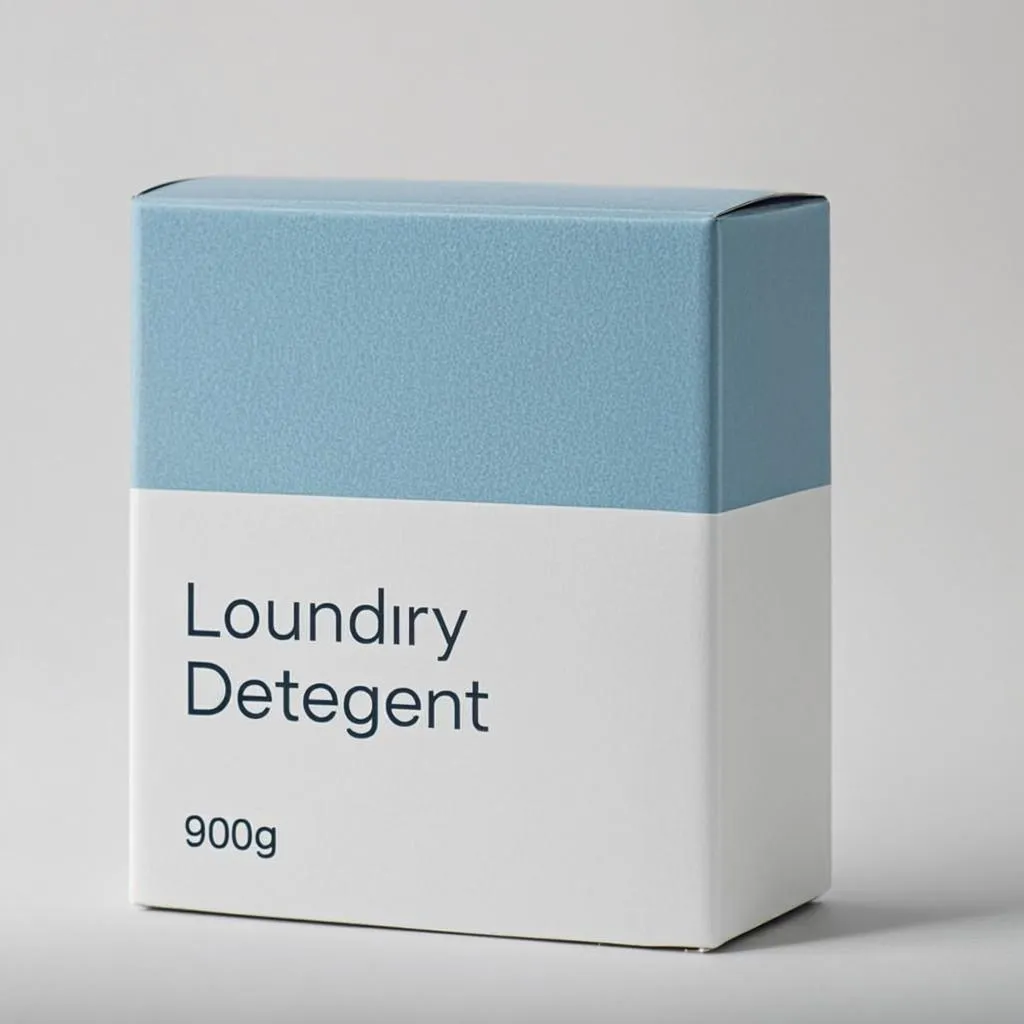
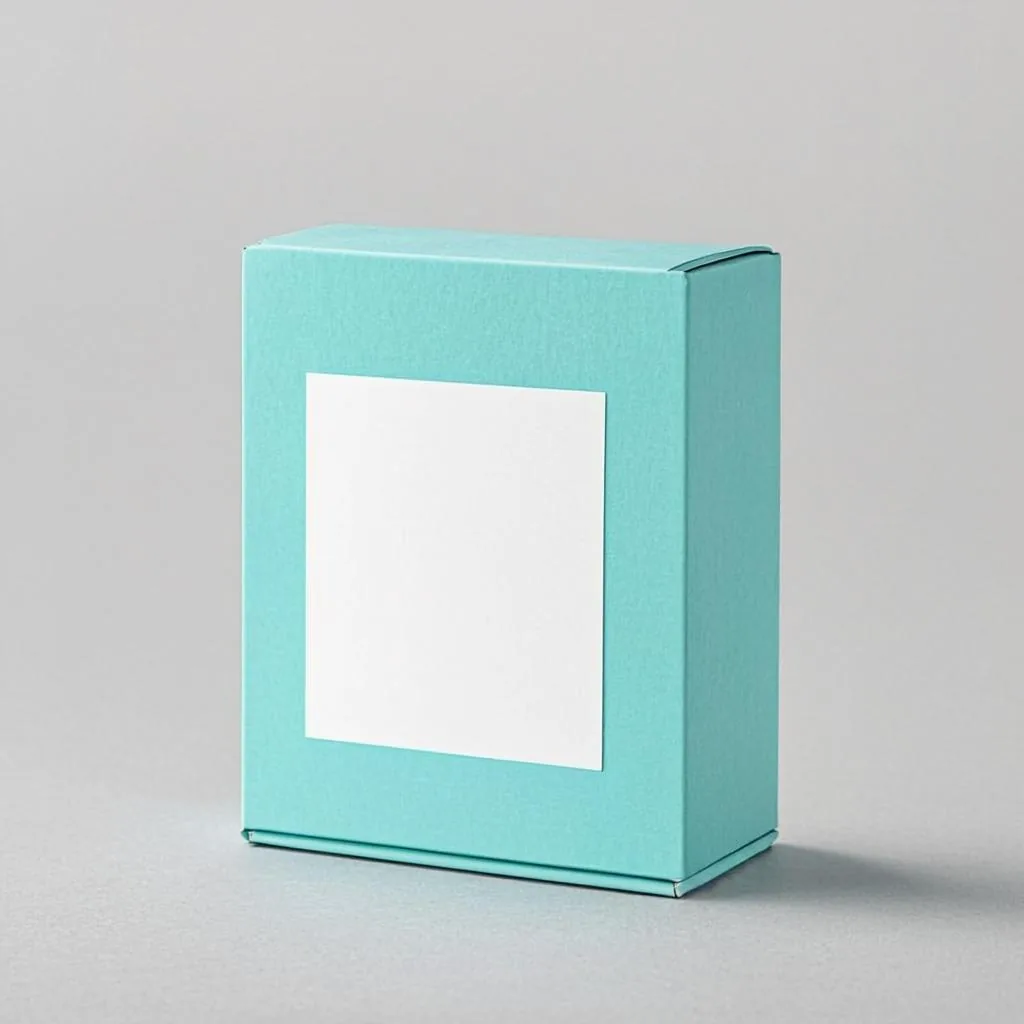
feat(landing): imagenes de producto reales en «Organiza tu catalogo»
El paso 2 del ecosistema multi-tienda mostraba las 4 tarjetas de
producto con un placeholder de icono casi invisible (text-white/10) en
lugar de imagenes.

- Reutiliza los assets que el proyecto ya tenia sin referencias en
  public/landing/demo-products/ (arroz/aceite/cafe/detergente.webp,
  1024x1024, commit c4ce1177e) — sin duplicar bibliotecas ni anadir
  dependencias.
- detergente.webp REGENERADO: el original mostraba texto corrupto
  generado ('Loundry Detegent'); el reemplazo es packaging sin texto con
  el mismo fondo/estudio, convertido a WebP q82.
- DemoProductThumb: contenedor cuadrado uniforme + next/image lazy con
  object-contain (conserva la silueta, sin recortes ni deformaciones),
  quality 90 (permitida en next.config), sizes reales del grid y
  fallback elegante al icono Package si la imagen falla (nunca imagen
  rota). Alt descriptivo del contenido visual (el nombre comercial ya
  esta como texto adyacente).
- Nombres, precios y stocks originales intactos (mock estatico, sin DB).

diff --git a/src/components/landing/MultiStoreVisualSection.tsx b/src/components/landing/MultiStoreVisualSection.tsx
@@ -1,6 +1,7 @@
 'use client';
 
-import React from 'react';
+import React, { useState } from 'react';
+import Image from 'next/image';
 import { motion } from 'framer-motion';
 import {
   Package,
@@ -19,7 +20,83 @@ import FeatureVisual from './FeatureVisual';
  *
  * AUDIT (2026-08-18): Todos los datos son MOCK estáticos definidos en
  * este archivo. No consulta la DB.
+ *
+ * LANDING-CATALOG-IMAGES (2026-10-12): el paso 2 muestra miniaturas reales de
+ * producto (public/landing/demo-products/*.webp — assets del proyecto,
+ * 1024x1024, añadidos en c4ce1177e y sin referencias hasta ahora;
+ * detergente.webp regenerado sin texto por packaging corrupto "Loundry").
+ * Contenedor cuadrado uniforme + object-contain (conserva la silueta del
+ * producto, sin recortes ni deformaciones) + fallback elegante al icono si la
+ * imagen falla (nunca un icono de imagen rota). Nombres, precios y stocks
+ * originales intactos.
  */
+
+/** Productos de demostración — datos originales sin cambios (mock estático). */
+const DEMO_CATALOG = [
+  {
+    name: 'Arroz Grano Largo 5kg',
+    price: 320,
+    stock: 120,
+    img: '/landing/demo-products/arroz.webp',
+    alt: 'Saco transparente con arroz de grano largo',
+  },
+  {
+    name: 'Aceite Girasol 1L',
+    price: 480,
+    stock: 64,
+    img: '/landing/demo-products/aceite.webp',
+    alt: 'Botella de aceite de girasol',
+  },
+  {
+    name: 'Café Tostado 250g',
+    price: 350,
+    stock: 55,
+    img: '/landing/demo-products/cafe.webp',
+    alt: 'Paquete de café tostado en grano',
+  },
+  {
+    name: 'Detergente 900g',
+    price: 300,
+    stock: 47,
+    img: '/landing/demo-products/detergente.webp',
+    alt: 'Caja de detergente en polvo',
+  },
+] as const;
+
+/**
+ * DemoProductThumb — miniatura cuadrada con fallback elegante.
+ * Si el WebP falla (404/red), muestra el placeholder Package original en vez
+ * de un icono de imagen rota. Alt descriptivo del contenido visual (el nombre
+ * comercial ya está como texto adyacente — no se duplica información).
+ */
+function DemoProductThumb({ img, alt }: { img: string; alt: string }) {
+  const [failed, setFailed] = useState(false);
+
+  if (failed) {
+    return (
+      <div className="w-full aspect-square rounded-md bg-white/[0.03] mb-2 flex items-center justify-center" aria-hidden="true">
+        <Package className="w-5 h-5 text-white/15" />
+      </div>
+    );
+  }
+
+  return (
+    <div className="relative w-full aspect-square rounded-md overflow-hidden bg-white/[0.06] mb-2">
+      <Image
+        src={img}
+        alt={alt}
+        fill
+        loading="lazy"
+        decoding="async"
+        sizes="(max-width: 640px) 45vw, 220px"
+        quality={90}
+        onError={() => setFailed(true)}
+        className="object-contain"
+      />
+    </div>
+  );
+}
+
 export function MultiStoreVisualSection() {
   return (
     <section id="plataforma" className="relative py-20 sm:py-28 px-4 sm:px-6 overflow-hidden">
@@ -92,16 +169,9 @@ export function MultiStoreVisualSection() {
           </div>
           <div className="rounded-2xl border border-white/[0.06] bg-[#0a0f1a] overflow-hidden p-3">
             <div className="grid grid-cols-2 sm:grid-cols-4 gap-2">
-              {[
-                { name: 'Arroz Grano Largo 5kg', price: 320, stock: 120 },
-                { name: 'Aceite Girasol 1L', price: 480, stock: 64 },
-                { name: 'Café Tostado 250g', price: 350, stock: 55 },
-                { name: 'Detergente 900g', price: 300, stock: 47 },
-              ].map(p => (
+              {DEMO_CATALOG.map(p => (
                 <div key={p.name} className="rounded-lg bg-white/[0.02] p-2.5 border border-white/[0.03]">
-                  <div className="w-full h-12 rounded bg-white/[0.03] mb-2 flex items-center justify-center">
-                    <Package className="w-4 h-4 text-white/10" />
-                  </div>
+                  <DemoProductThumb img={p.img} alt={p.alt} />
                   <p className="text-[10px] font-bold text-white truncate">{p.name}</p>
                   <div className="flex items-center justify-between mt-1">
                     <span className="text-[10px] font-black text-[#22c55e] tabular-nums">{formatCurrency(p.price)}</span>

diff --git a/public/landing/README.md b/public/landing/README.md
@@ -42,3 +42,14 @@ Contexto del demo: `.e2e-run-contexts/landing-demo-context.json` (gitignored).
   encogido ilegible)
 - `demo-products/` — imágenes de producto ficticias para la vitrina demo
   (sembradas por el provisioner como `image_url`)
+
+## demo-products/ (imágenes ficticias de producto)
+
+- Origen: assets del proyecto (commit c4ce1177e, feat/landing-product-demo),
+  1024x1024 webp — estilo fotografía de producto sobre fondo gris claro.
+- Consumo: `MultiStoreVisualSection` paso 2 «Organiza tu catálogo»
+  (LANDING-CATALOG-IMAGES, 2026-10-12).
+- `detergente.webp` REGENERADO (2026-10-12): el original mostraba texto
+  corrupto generado ("Loundry Detegent"); el reemplazo es una caja de
+  detergente sin texto, mismo fondo/estilo, generado por IA y convertido a
+  WebP q82 (scripts: PIL).
